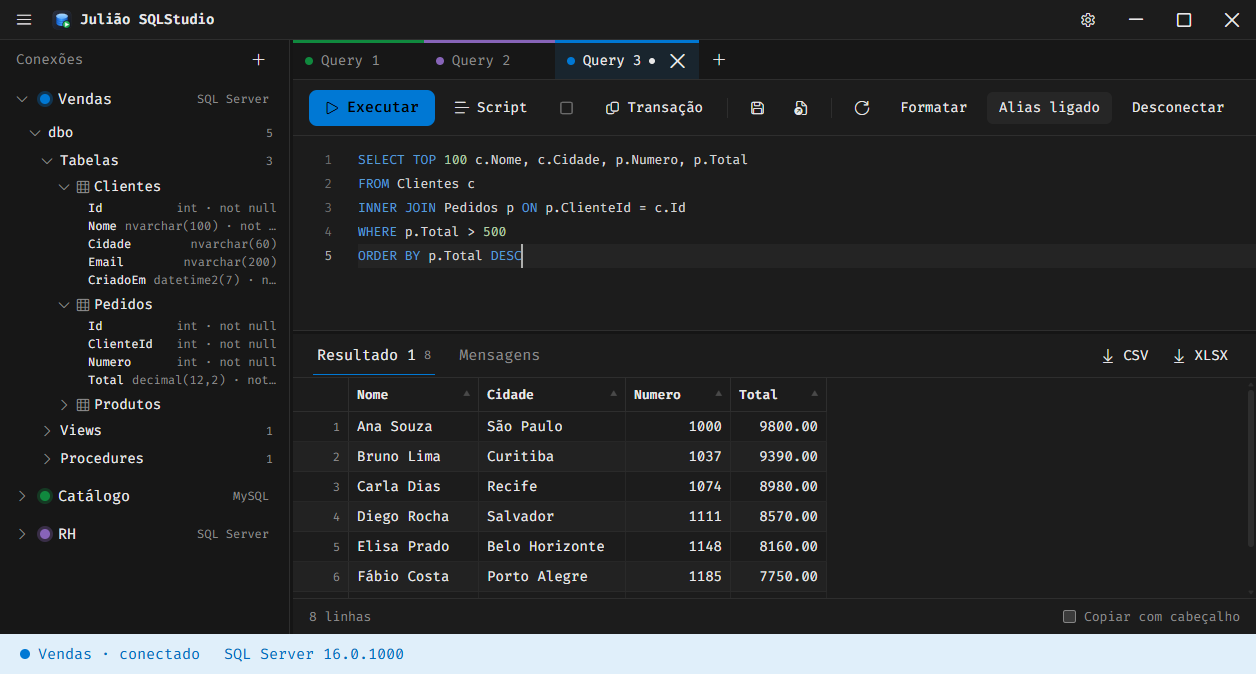
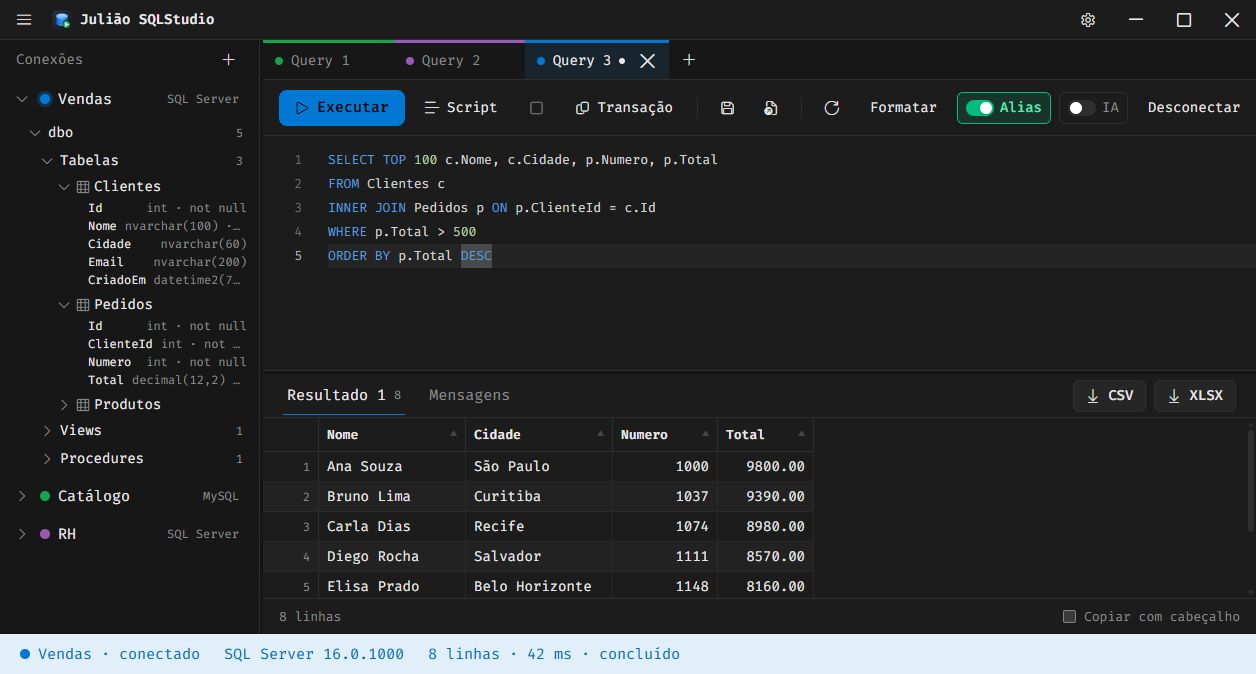
Deixa claro o estado dos botões Alias e IA com um interruptor verde, dá aparência de botão a CSV e XLSX e atualiza a imagem do README

diff --git a/src/SqlDesk.Web/src/components/ResultsPanel.tsx b/src/SqlDesk.Web/src/components/ResultsPanel.tsx
@@ -70,7 +70,8 @@ export function ResultsPanel({ results, color, onActivate, onJumpToLine, onLoadA
 
   const tabClass = (on: boolean) =>
     `-mb-px flex items-center gap-2 border-b-2 px-1 py-2 text-[15px] ${on ? 'text-fg' : 'border-transparent text-muted hover:text-fg'}`
-  const ghost = 'flex h-8 items-center gap-2 rounded-md px-2 text-sm text-fg disabled:opacity-40'
+  // Exportar: com borda e fundo, para parecer botão (e não texto solto ao lado das abas).
+  const exportBtn = 'flex h-8 items-center gap-2 rounded-md border border-line bg-hover px-3 text-sm font-medium text-fg enabled:hover:border-muted enabled:hover:bg-selected disabled:opacity-40'
 
   return (
     <section className="flex h-full min-h-0 flex-col bg-surface" aria-label="Resultados">
@@ -104,10 +105,10 @@ export function ResultsPanel({ results, color, onActivate, onJumpToLine, onLoadA
           </button>
         </div>
         <div className="ml-auto flex shrink-0 gap-2">
-          <button disabled={!canExport} className={ghost} title={`Exportar o resultado ativo em CSV (separador ${getCsvDelimiter()}, em Configurações)`} onClick={() => active && onExport('csv', active, view.current ?? identityView(active.columns.length))}>
+          <button disabled={!canExport} className={exportBtn} title={`Exportar o resultado ativo em CSV (separador ${getCsvDelimiter()}, em Configurações)`} onClick={() => active && onExport('csv', active, view.current ?? identityView(active.columns.length))}>
             <span className="icon">&#xE896;</span> CSV
           </button>
-          <button disabled={!canExport} className={ghost} title="Exportar o resultado ativo em XLSX" onClick={() => active && onExport('xlsx', active, view.current ?? identityView(active.columns.length))}>
+          <button disabled={!canExport} className={exportBtn} title="Exportar o resultado ativo em XLSX" onClick={() => active && onExport('xlsx', active, view.current ?? identityView(active.columns.length))}>
             <span className="icon">&#xE896;</span> XLSX
           </button>
         </div>

diff --git a/src/SqlDesk.Web/src/components/Toolbar.tsx b/src/SqlDesk.Web/src/components/Toolbar.tsx
@@ -1,4 +1,5 @@
 import { textOn } from '../colors'
+import { Toggle } from './Toggle'
 import type { ConnectionInfo } from '../contracts'
 import type { Tab } from '../tabsState'
 
@@ -82,22 +83,18 @@ export function Toolbar({ tab, connection, color, onSave, onOpen, onConnect, onD
       <button className={ghost} title="Formatar o SQL: a seleção ou o texto todo (Shift+Alt+F)" onClick={onFormat}>
         Formatar
       </button>
-      <button
-        className={`${ghost} ${autoAlias ? 'bg-hover' : ''}`}
-        title="Alias automático ao aceitar uma tabela depois de FROM ou JOIN"
-        aria-pressed={autoAlias}
+      <Toggle
+        on={autoAlias}
+        label="Alias"
+        title={`Alias automático ao aceitar uma tabela depois de FROM ou JOIN (${autoAlias ? 'ligado' : 'desligado'})`}
         onClick={onToggleAlias}
-      >
-        Alias {autoAlias ? 'ligado' : 'desligado'}
-      </button>
-      <button
-        className={`${ghost} ${aiMode ? 'bg-hover font-medium' : ''}`}
-        title="Modo IA: escreva o que quer consultar em português e o Ctrl+Enter converte em SQL e executa (só consultas de leitura; qualquer outra coisa nunca é executada)"
-        aria-pressed={aiMode}
+      />
+      <Toggle
+        on={aiMode}
+        label="IA"
+        title={`Modo IA (${aiMode ? 'ligado' : 'desligado'}): escreva o que quer consultar em português e o Ctrl+Enter converte em SQL e executa (só consultas de leitura; qualquer outra coisa nunca é executada)`}
         onClick={onToggleAi}
-      >
-        IA {aiMode ? 'ligada' : 'desligada'}
-      </button>
+      />
 
       <div className="ml-auto flex min-w-0 items-center gap-3 text-[15px] text-muted">
         {tab.connectionId === null ? (

diff --git a/src/SqlDesk.Web/src/components/Toggle.tsx b/src/SqlDesk.Web/src/components/Toggle.tsx
@@ -1,0 +1,22 @@
+/**
+ * Botão liga/desliga da barra de ferramentas. Ligado, fica com borda e fundo verdes e o "interruptor" à direita; desligado,
+ * fica neutro com o interruptor à esquerda. O estado se lê pela cor, pela posição do interruptor e pelo texto.
+ */
+export function Toggle({ on, label, title, onClick }: { on: boolean; label: string; title: string; onClick: () => void }) {
+  return (
+    <button
+      role="switch"
+      aria-checked={on}
+      title={title}
+      onClick={onClick}
+      className={`flex h-8 shrink-0 items-center gap-1.5 whitespace-nowrap rounded-md border px-2 text-sm ${
+        on ? 'border-emerald-500 bg-emerald-500/15 font-medium text-emerald-300 hover:bg-emerald-500/25' : 'border-line text-muted hover:bg-hover'
+      }`}
+    >
+      <span aria-hidden className={`relative h-4 w-7 shrink-0 rounded-full transition-colors ${on ? 'bg-emerald-500' : 'bg-line'}`}>
+        <span className={`absolute top-0.5 h-3 w-3 rounded-full bg-white shadow transition-all ${on ? 'left-3.5' : 'left-0.5'}`} />
+      </span>
+      {label}
+    </button>
+  )
+}
